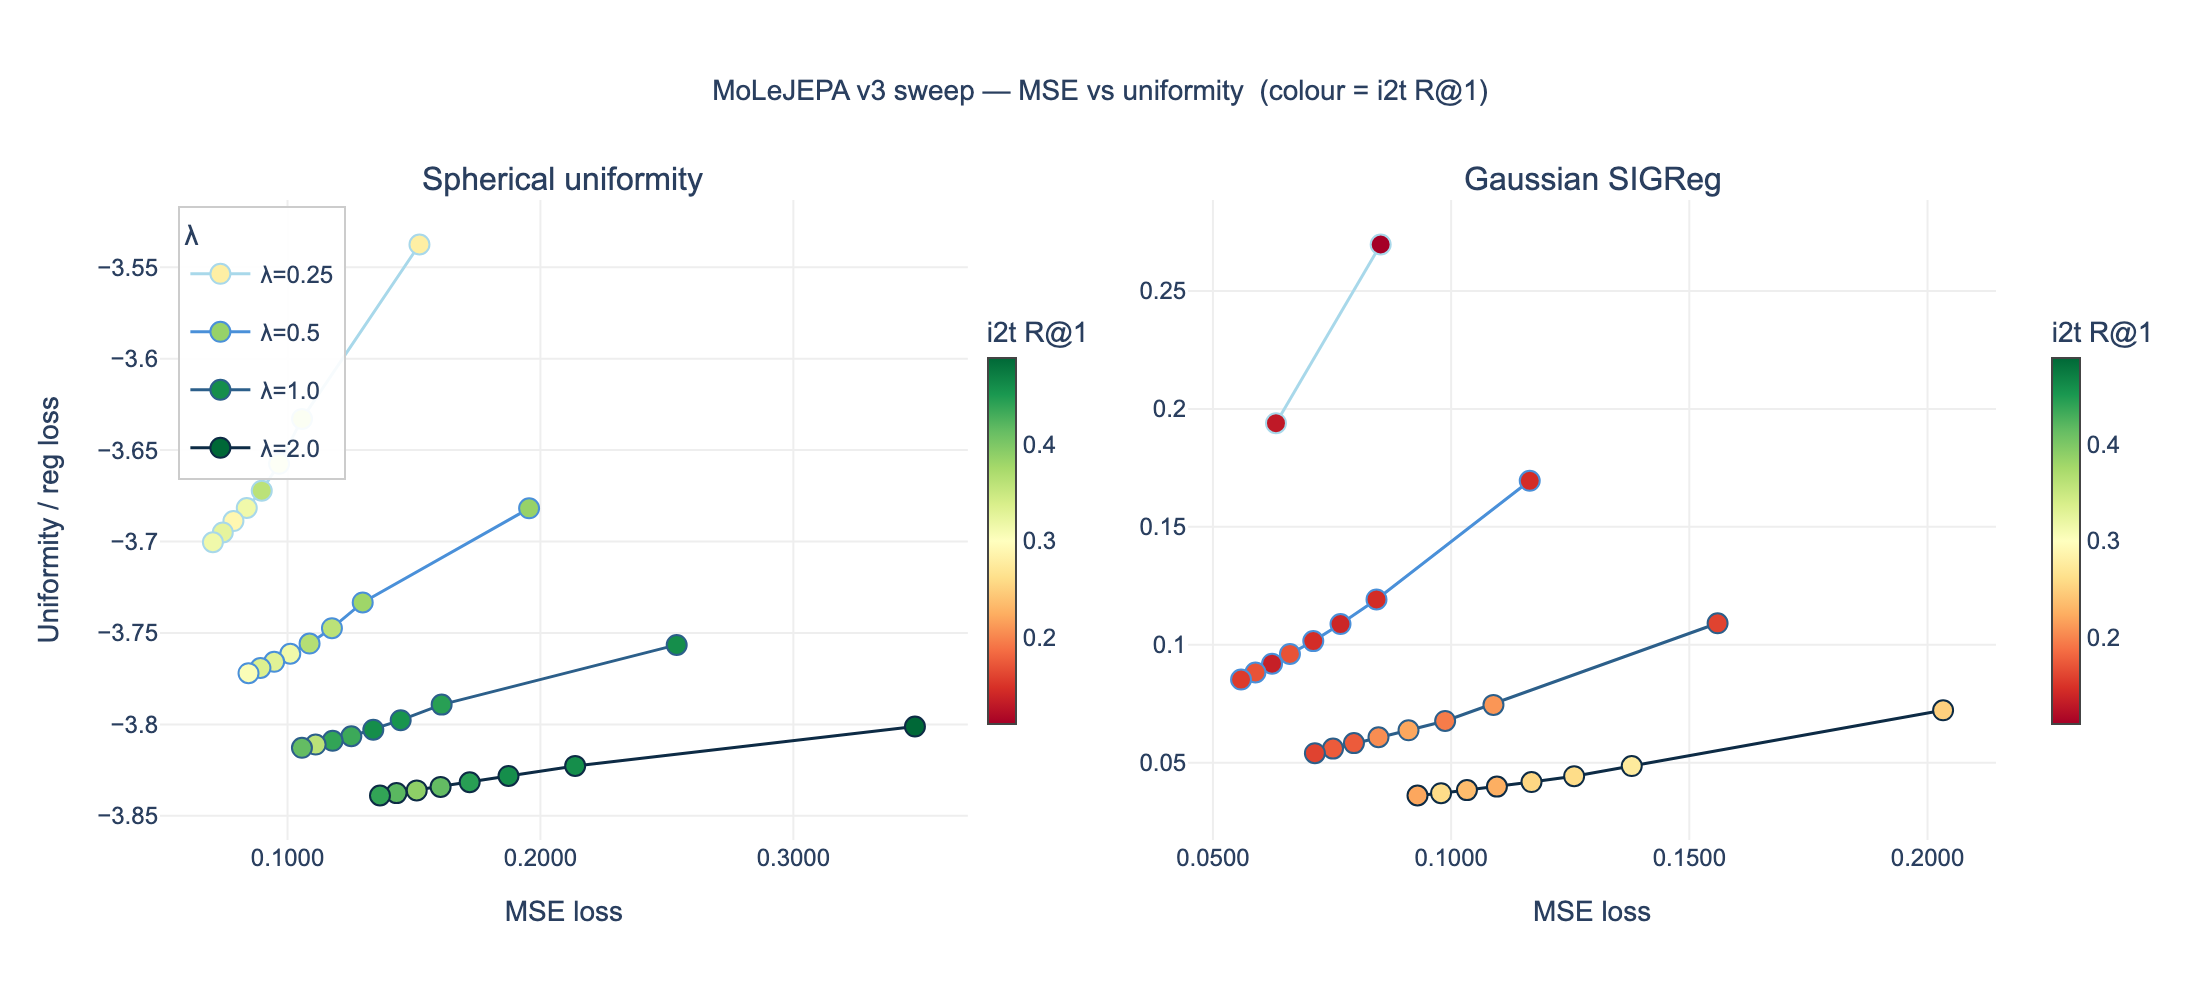
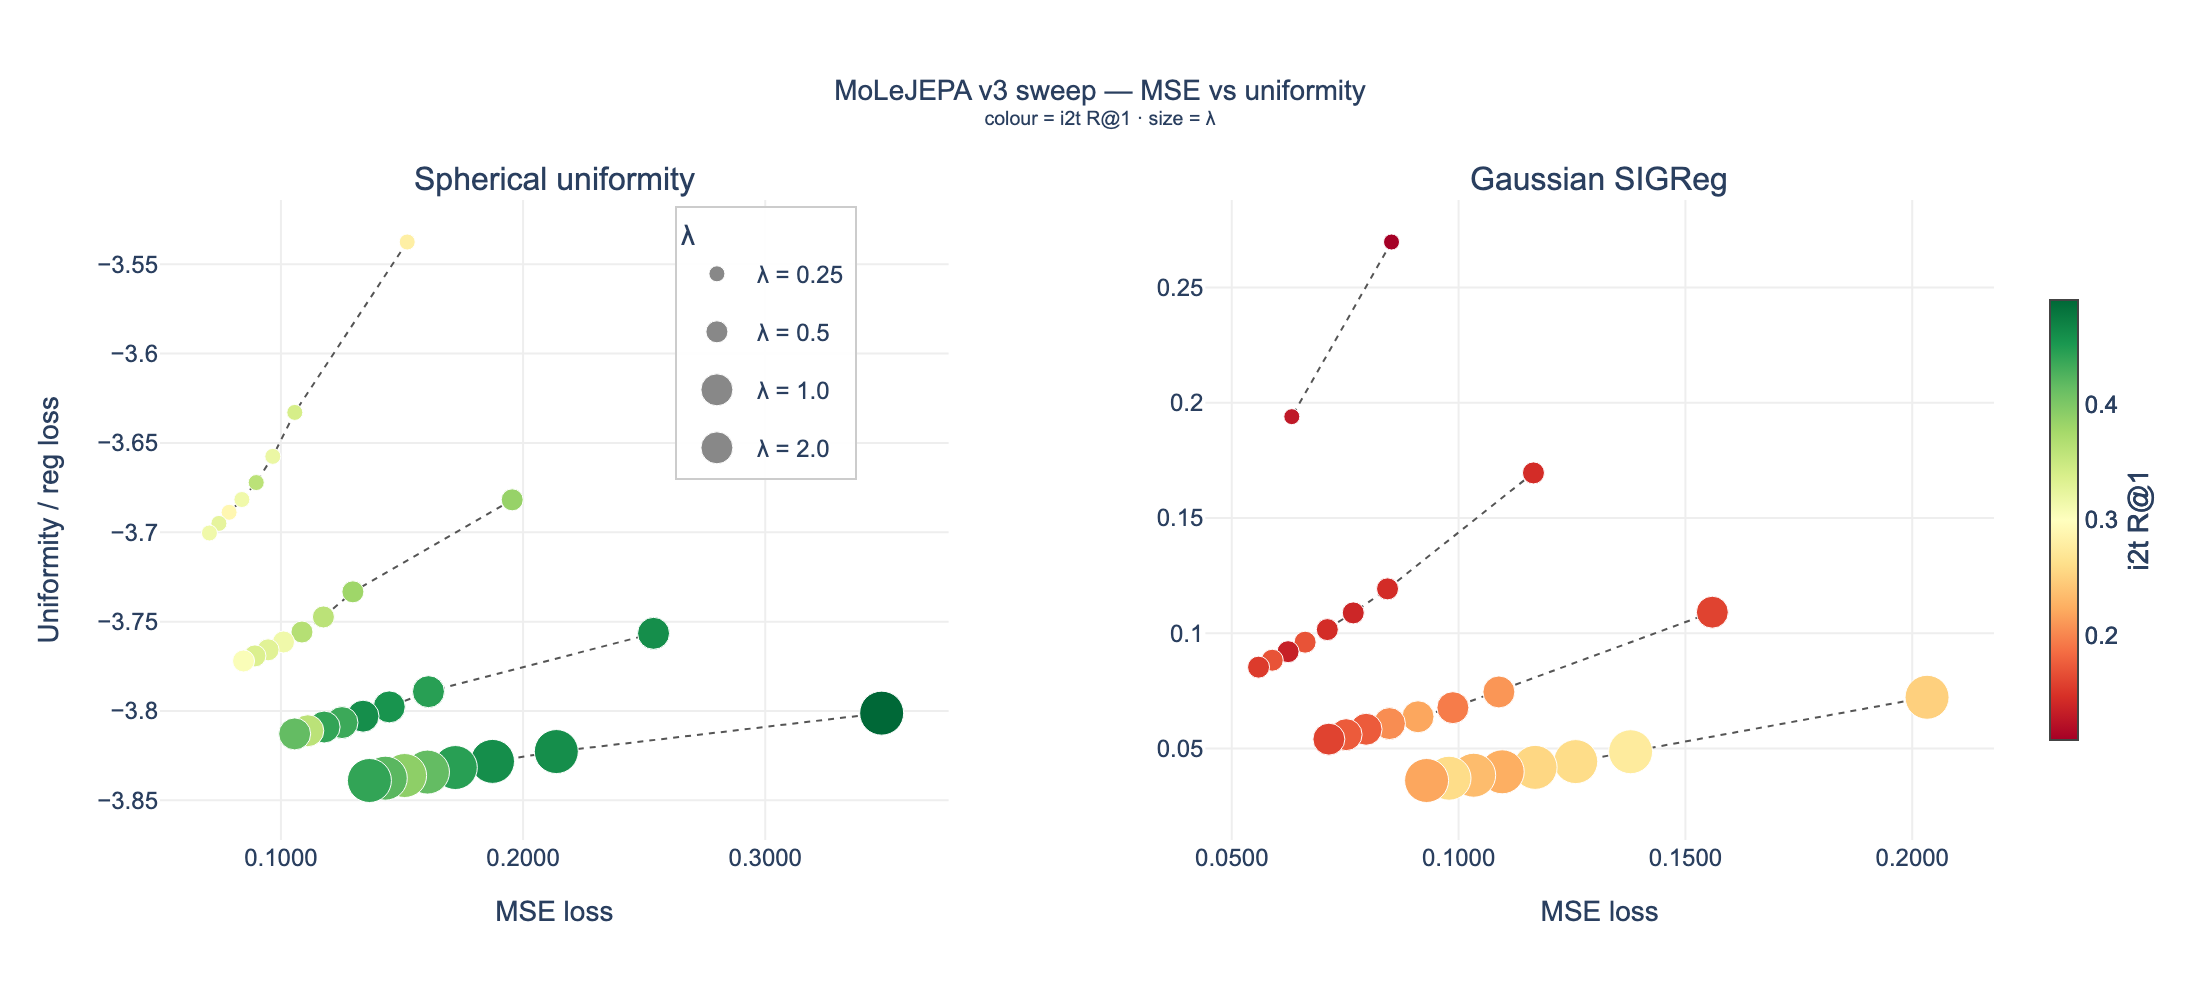
Remap scatter: marker size = λ, colour = i2t R@1, unified legend
Removes the λ colour palette so the full colour channel is reserved for
i2t R@1 (RdYlGn). Marker size now encodes λ with perceptual area scaling
(8/11/16/22 px for 0.25/0.5/1.0/2.0). Size legend uses dummy invisible
traces in the left panel; colorbar sits on the right edge of the right
panel only.

diff --git a/scripts/plot_sweep_v3.py b/scripts/plot_sweep_v3.py
@@ -1,5 +1,6 @@
 """Generate side-by-side Plotly scatters: MSE vs uniformity, coloured by i2t R@1.
 
+Marker colour encodes i2t R@1 (RdYlGn).  Marker size encodes λ.
 Left panel: spherical uniformity runs.  Right panel: Gaussian SIGReg runs.
 
 Usage:
@@ -28,12 +29,10 @@ _LABELS = {
     "sweep_gauss_lam20_v3": "λ=2.0",
 }
 
-_PALETTE = {
-    0.25: "#a8d8ea",
-    0.5: "#4a90d9",
-    1.0: "#2c5f8a",
-    2.0: "#0d2b45",
-}
+# λ → marker diameter (px).  Perceptual area scaling: size ∝ sqrt(λ).
+_LAM_SIZE = {0.25: 8, 0.5: 11, 1.0: 16, 2.0: 22}
+
+_LINE_COLOR = "#555555"  # neutral — colour channel is reserved for R@1
 
 _PANELS = {"sphere": 1, "gauss": 2}
 _PANEL_TITLES = ("Spherical uniformity", "Gaussian SIGReg")
@@ -59,10 +58,10 @@ def main() -> None:
         cols=2,
         subplot_titles=_PANEL_TITLES,
         shared_yaxes=False,
-        horizontal_spacing=0.12,
+        horizontal_spacing=0.14,
     )
 
-    # Track which panel gets the colorbar (last trace in each panel)
+    # Which run is last in each panel — that one gets the R@1 colorbar.
     last_in_panel: dict[int, str] = {}
     for run, _ in df.groupby("run"):
         run_str = str(run)
@@ -76,7 +75,7 @@ def main() -> None:
         geometry = "sphere" if "sphere" in run_str else "gauss"
         col = _PANELS[geometry]
         lam = float(group["lam"].iloc[0])
-        line_color = _PALETTE.get(lam, "#888888")
+        marker_size = _LAM_SIZE.get(lam, 12)
         show_colorbar = run_str == last_in_panel[col]
 
         fig.add_trace(
@@ -86,7 +85,7 @@ def main() -> None:
                 mode="lines+markers",
                 name=label,
                 legendgroup=label,
-                showlegend=col == 1,  # deduplicate legend — show only from left panel
+                showlegend=False,  # legend replaced by size-legend dummy traces below
                 text=[
                     f"<b>{label}</b><br>epoch {int(r['epoch'])}<br>"
                     f"MSE={r['epoch/train_loss_mse']:.4f}<br>"
@@ -95,43 +94,65 @@ def main() -> None:
                     for _, r in group.iterrows()
                 ],
                 hoverinfo="text",
-                line=dict(color=line_color, width=1.5),
+                line=dict(color=_LINE_COLOR, width=1, dash="dot"),
                 marker=dict(
                     symbol="circle",
-                    size=10,
+                    size=marker_size,
                     color=group["retrieval/i2t_r1"].tolist(),
                     colorscale="RdYlGn",
                     cmin=r1_min,
                     cmax=r1_max,
                     showscale=show_colorbar,
                     colorbar=dict(
-                        title="i2t R@1",
+                        title=dict(text="i2t R@1", side="right"),
                         thickness=14,
-                        len=0.7,
-                        x=1.02 if col == 2 else 0.44,
+                        len=0.75,
+                        x=1.02,
                         y=0.5,
                     ),
-                    line=dict(color=line_color, width=1),
+                    line=dict(color="white", width=0.5),
                 ),
             ),
             row=1,
             col=col,
         )
 
+    # ── size legend: dummy invisible traces, one per λ value ─────────────────
+    for lam, size in sorted(_LAM_SIZE.items()):
+        fig.add_trace(
+            go.Scatter(
+                x=[None],
+                y=[None],
+                mode="markers",
+                name=f"λ = {lam}",
+                legendgroup=f"lam_{lam}",
+                showlegend=True,
+                marker=dict(
+                    symbol="circle",
+                    size=size,
+                    color="#888888",
+                    line=dict(color="white", width=0.5),
+                ),
+            )
+        )
+
     fig.update_layout(
         title=dict(
-            text="MoLeJEPA v3 sweep — MSE vs uniformity  (colour = i2t R@1)",
+            text=(
+                "MoLeJEPA v3 sweep — MSE vs uniformity"
+                "<br><sup>colour = i2t R@1 · size = λ</sup>"
+            ),
             font=dict(size=14),
             x=0.5,
         ),
         legend=dict(
-            title="λ",
+            title=dict(text="λ"),
             bgcolor="rgba(255,255,255,0.9)",
             bordercolor="#cccccc",
             borderwidth=1,
-            x=0.01,
+            x=0.38,
             y=0.99,
-            xanchor="left",
+            xanchor="right",
             yanchor="top",
         ),
         plot_bgcolor="white",
